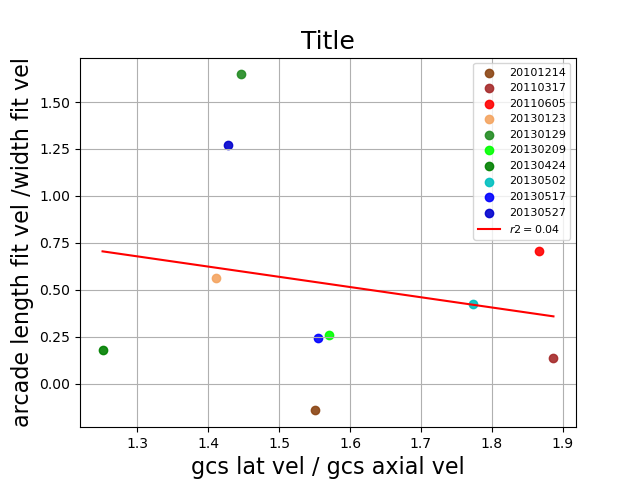
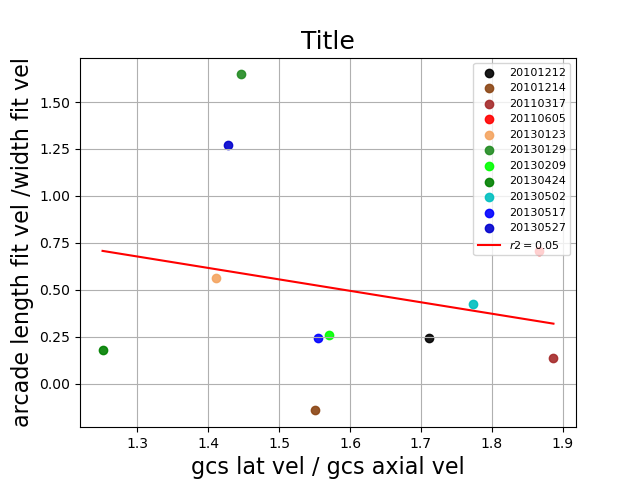
Hebe is done with new plot

diff --git a/tools/cremades/compare_all_prop_hebe.py b/tools/cremades/compare_all_prop_hebe.py
@@ -115,14 +115,14 @@ os.makedirs(opath, exist_ok=True)
 plot_tilt = False
 gcs_lat_axial_ratio_vs_length_over_width_fit_vel = True
 gcs_awl_awd_ratio_vs_length_width_fit_vel_ratio = True
-gcs_awl_vs_length_fit_vel = True
+pea_prop_speed_vs_gcs_awl = True
 pea_sep_speed_vs_gcs_awd = True
 #lista de CMEs que no deben plotearse
 #poner el numero de ID
 #Si no queremos rechazar ninguna, poner --> None
 list_rejected_cmes_id = None 
 #por ejemplo si quiero quitar el evento 1
-list_rejected_cmes_id = [0]
+#list_rejected_cmes_id = [0]
 
 #Mas colores en https://i.stack.imgur.com/nCk6u.jpg
 
@@ -264,14 +264,14 @@ if gcs_lat_axial_ratio_vs_length_over_width_fit_vel:
     plt.close()
 
 #------------------------------------------------------------------------------------------------------
-# plots gcs awl VS arcade length fit for each date
-if gcs_awl_vs_length_fit_vel:
+# plots PEA propagation speed vs. GCS AW_L for each date  -->being done by Hebe
+if pea_prop_speed_vs_gcs_awl:
     ajuste_lineal1 = True
 
     df_ar['datetimes'] = pd.to_datetime(df_ar['Date'], format='%d/%m/%Y')
     all_x=[]
     all_y=[]
-    colors = ['k','saddlebrown','brown','r','sandybrown','forestgreen','lime','g','c','b','mediumblue','midnightblue']
+    colors = ['k','saddlebrown','brown','r','sandybrown','darkkhaki','lawngreen','mediumspringgreen','mediumturquoise','royalblue','b','mediumblue']
     labels = ['20101212','20101214','20110317','20110605','20130123','20130129','20130209','20130424','20130502','20130517','20130527','20130608']
     for d in df_ar['datetimes']:
         d_str = d.strftime('%Y%m%d')
@@ -303,9 +303,9 @@ if gcs_awl_vs_length_fit_vel:
 
     fig,ax = plt.subplots()
     #ejes y titulo
-    ax.set_xlabel('gcs awl', fontsize=16)
-    ax.set_ylabel('arcade length fit vel [km/s]', fontsize=16)
-    ax.set_title('Title', fontsize=18)
+    ax.set_xlabel('GCS AW$_L$', fontsize=14)
+    ax.set_ylabel('PEA propagation speed [km s$^{-1}$]', fontsize=14)
+    #ax.set_title('Title', fontsize=18)
     for contador in range(len(all_x_filtered)):
         ax.scatter(all_x_filtered[contador],all_y_filtered[contador],c=colors_filtered[contador],label=labels_filtered[contador],alpha=0.9)
 
@@ -314,11 +314,11 @@ if gcs_awl_vs_length_fit_vel:
         ax.plot(x_axis, intercept + slope*x_axis, 'r', label=f'$r2 = {r_square:.2f}$')
     ax.legend(loc="upper right", prop={'size': 8})
     ax.grid(True)
-    plt.savefig(opath+'/gcs_awl_vs_length_fit_vel.png')
+    plt.savefig(hpath+'/pea_prop_speed_vs_gcs_awl.png')
     plt.close()
 
 #------------------------------------------------------------------------------------------------------
-# plots gcs awd VS arcade width fit for each date ---> listo hebe
+# plots PEA separation speed vs. GCS AW_D for each date ---> listo hebe
 if pea_sep_speed_vs_gcs_awd:
     ajuste_lineal2 = False
 
